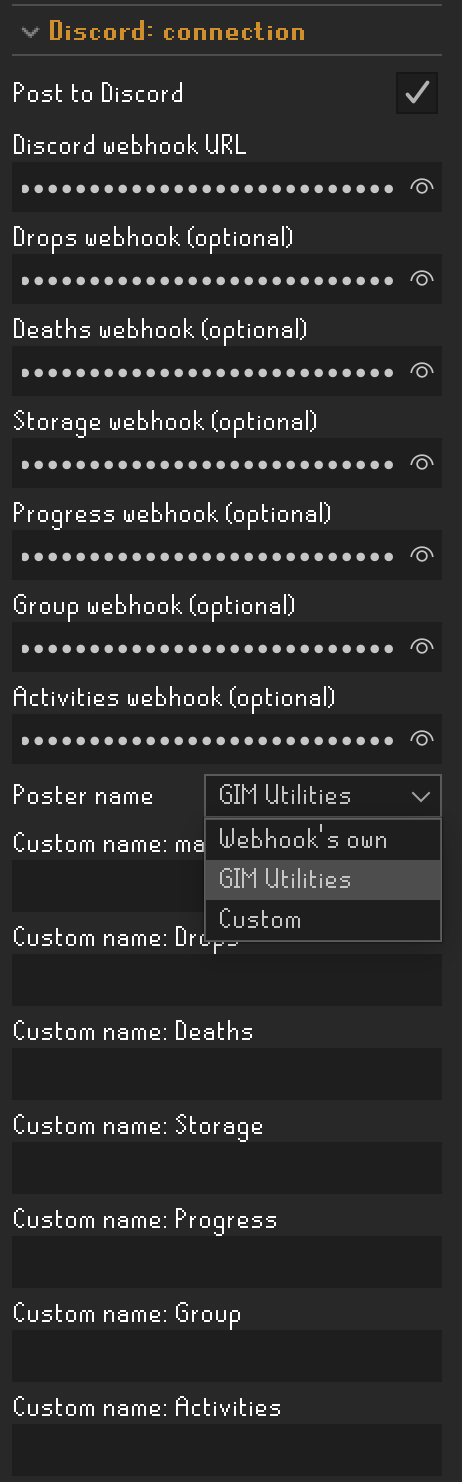
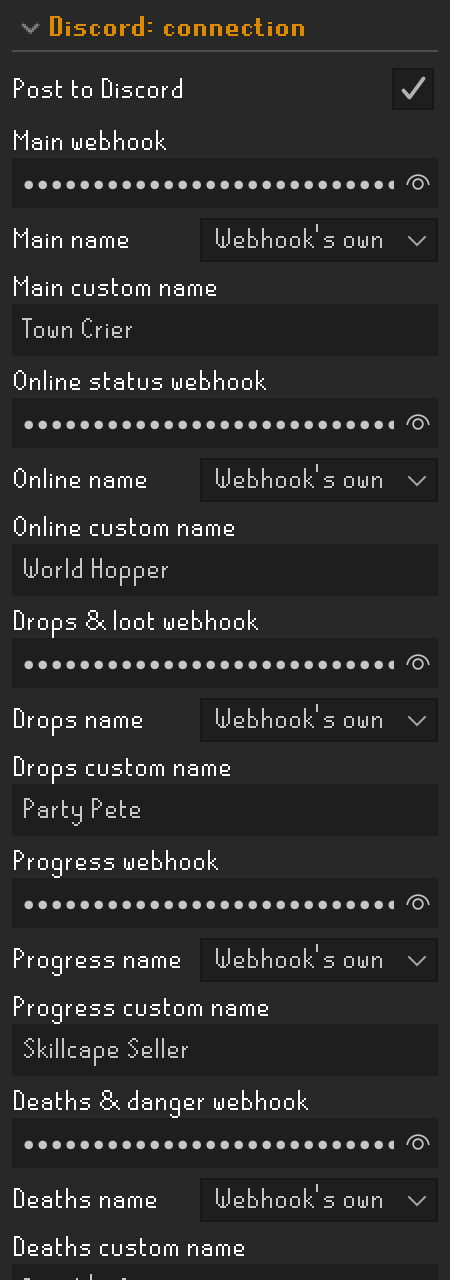
docs(readme): render README shots from made-up scenes
ReadmeShots renders 7 shots at fixed sizes (225 wide, 2x):
settings-tab-leader, settings-tab-member, settings-who-posts,
panel-group-hiscores, storage-log (Storage chip), settings-discord-
connection, settings-thresholds-advanced. ./gradlew screenshots writes
docs/images; ./gradlew test writes build/screenshots.

Item icons are placeholders (no game cache). docs/testing-ui.md: driver
choice with cited docs, what needs a display, how to add tests/shots.

StayPoint-Task: task-5586ef09
StayPoint-Run: local-8684246d

diff --git a/src/test/java/com/vinnyvangogh/groupironman/ReadmeShots.java b/src/test/java/com/vinnyvangogh/groupironman/ReadmeShots.java
@@ -1,0 +1,197 @@
+package com.vinnyvangogh.groupironman;
+
+import com.vinnyvangogh.testkit.ui.ConfigPanelHarness;
+import com.vinnyvangogh.testkit.ui.RuneLiteLook;
+import com.vinnyvangogh.testkit.ui.SwingDriver;
+import java.awt.Color;
+import java.awt.image.BufferedImage;
+import java.io.File;
+import java.util.Collections;
+import java.util.LinkedHashMap;
+import java.util.Map;
+import java.util.function.Supplier;
+import javax.imageio.ImageIO;
+import javax.swing.AbstractButton;
+import javax.swing.JToggleButton;
+import net.runelite.client.ui.ColorScheme;
+import org.junit.Before;
+import org.junit.Test;
+import static org.junit.Assert.assertEquals;
+import static org.junit.Assert.assertTrue;
+
+/**
+ * Renders the README's screenshots from the shot list, each at a fixed size,
+ * from made-up scenes (no real account names). Headless.
+ *
+ * <p>{@code ./gradlew screenshots} writes them into docs/images. In
+ * {@code ./gradlew test} the same code writes to build/screenshots, so a
+ * change that breaks a shot fails the build rather than the README.
+ *
+ * <p>Item icons are placeholders with the item's initials: the game cache is
+ * not available outside the client. The shots chosen for the README are the
+ * ones that read without real icons.
+ */
+public class ReadmeShots
+{
+	/** Shots are drawn at the sidebar's width and saved at twice the size, so they stay sharp on a retina screen. */
+	static final double SCALE = 2.0;
+	static final int WIDTH = GimPanelFixture.PANEL_WIDTH;
+	static final Color BACKGROUND = ColorScheme.DARK_GRAY_COLOR;
+
+	/** Name, then the shot's height in panel pixels: every shot of one name is always the same size. */
+	static final Map<String, Integer> SHOTS = new LinkedHashMap<>();
+
+	static
+	{
+		SHOTS.put("settings-tab-leader", 760);
+		SHOTS.put("settings-tab-member", 640);
+		SHOTS.put("settings-who-posts", 760);
+		SHOTS.put("panel-group-hiscores", 760);
+		SHOTS.put("storage-log", 520);
+		SHOTS.put("settings-discord-connection", 640);
+		SHOTS.put("settings-thresholds-advanced", 760);
+	}
+
+	@Before
+	public void lookLikeRuneLite()
+	{
+		SwingDriver.onEdt(RuneLiteLook::install);
+	}
+
+	static File outputDir()
+	{
+		String dir = System.getProperty("screenshots.dir");
+		return dir != null && !dir.isEmpty() ? new File(dir) : new File("build/screenshots");
+	}
+
+	@Test
+	public void rendersEveryShotAtItsFixedSize() throws Exception
+	{
+		Map<String, Supplier<BufferedImage>> renders = new LinkedHashMap<>();
+		renders.put("settings-tab-leader", ReadmeShots::settingsLeader);
+		renders.put("settings-tab-member", ReadmeShots::settingsMember);
+		renders.put("settings-who-posts", ReadmeShots::whoPosts);
+		renders.put("panel-group-hiscores", ReadmeShots::groupHiscores);
+		renders.put("storage-log", ReadmeShots::storageLog);
+		renders.put("settings-discord-connection", ReadmeShots::discordConnection);
+		renders.put("settings-thresholds-advanced", ReadmeShots::thresholdsAdvanced);
+		assertEquals("every shot in the list has a render", SHOTS.keySet(), renders.keySet());
+
+		File dir = outputDir();
+		for (Map.Entry<String, Supplier<BufferedImage>> e : renders.entrySet())
+		{
+			int w = (int) Math.round(WIDTH * SCALE);
+			int h = (int) Math.round(SHOTS.get(e.getKey()) * SCALE);
+			BufferedImage shot = SwingDriver.onEdt(() -> SwingDriver.fit(e.getValue().get(), w, h, BACKGROUND));
+			File file = new File(dir, e.getKey() + ".png");
+			SwingDriver.writePng(shot, file);
+			BufferedImage back = ImageIO.read(file);
+			assertEquals(e.getKey(), w, back.getWidth());
+			assertEquals(e.getKey(), h, back.getHeight());
+			assertTrue(e.getKey() + " is not blank", notBlank(back));
+		}
+	}
+
+	private static boolean notBlank(BufferedImage img)
+	{
+		int first = img.getRGB(0, 0);
+		for (int y = 0; y < img.getHeight(); y += 4)
+		{
+			for (int x = 0; x < img.getWidth(); x += 4)
+			{
+				if (img.getRGB(x, y) != first)
+				{
+					return true;
+				}
+			}
+		}
+		return false;
+	}
+
+	// ---- The shots ----
+
+	private static BufferedImage panelShot(GimPanelFixture f)
+	{
+		return f.ui.render(WIDTH, 0, SCALE);
+	}
+
+	private static GimPanelFixture settingsTab(String self)
+	{
+		GimPanelFixture.Scene s = GimPanelFixture.groupScene();
+		s.self = self;
+		s.settings = new GimPanelFixture.Governance().led(GimPanelFixture.SELF, GimPanelFixture.MOSS, s.now)
+			.view(self, true);
+		return new GimPanelFixture().show(s).tab("Settings");
+	}
+
+	static BufferedImage settingsLeader()
+	{
+		return panelShot(settingsTab(GimPanelFixture.SELF));
+	}
+
+	static BufferedImage settingsMember()
+	{
+		return panelShot(settingsTab(GimPanelFixture.WREN));
+	}
+
+	/** The leader's grid of who posts what, from its header down: it sits below everything else in the tab. */
+	static BufferedImage whoPosts()
+	{
+		GimPanelFixture f = settingsTab(GimPanelFixture.SELF);
+		f.ui.click("- " + GroupSettingsSchema.THRESHOLDS);
+		f.ui.click("+ Who posts what");
+		BufferedImage full = panelShot(f);
+		int top = f.ui.yOf(f.ui.button("- Who posts what")) - 4;
+		return SwingDriver.from(full, (int) Math.round(top * SCALE));
+	}
+
+	static BufferedImage groupHiscores()
+	{
+		return panelShot(new GimPanelFixture().show(GimPanelFixture.groupScene()));
+	}
+
+	/** The Log with the Storage chip ticked. */
+	static BufferedImage storageLog()
+	{
+		GimPanelFixture f = new GimPanelFixture().show(GimPanelFixture.logScene()).tab("Log");
+		AbstractButton chip = f.ui.all(JToggleButton.class).stream()
+			.filter(b -> "Storage".equals(b.getText()) && b.getToolTipText() != null)
+			.findFirst().orElseThrow(() -> new AssertionError("no Storage chip"));
+		f.ui.click(chip);
+		return panelShot(f);
+	}
+
+	static BufferedImage discordConnection()
+	{
+		ConfigPanelHarness h = ConfigPanelHarness.of("GIM Utilities", GimPanelFixture.DEFAULTS, discordOn());
+		h.setOpen("Discord: connection", true);
+		return SwingDriver.stack(WIDTH, CONFIG_PAD, SCALE, BACKGROUND, h.section("Discord: connection"));
+	}
+
+	static BufferedImage thresholdsAdvanced()
+	{
+		ConfigPanelHarness h = ConfigPanelHarness.of("GIM Utilities", GimPanelFixture.DEFAULTS,
+			Collections.emptyMap());
+		h.setOpen("Thresholds", true);
+		h.setOpen("Advanced", true);
+		return SwingDriver.stack(WIDTH, CONFIG_PAD, SCALE, BACKGROUND, h.section("Thresholds"),
+			h.section("Advanced"));
+	}
+
+	/** The margin RuneLite's settings page puts around its sections. */
+	static final int CONFIG_PAD = 6;
+
+	/** Post to Discord ticked and made-up webhooks, so the fields show as filled secrets. */
+	private static Map<String, Object> discordOn()
+	{
+		Map<String, Object> v = new LinkedHashMap<>();
+		v.put("discordEnabled", true);
+		String hook = "https://discord.com/api/webhooks/0/made-up";
+		for (String key : new String[]{"discordWebhookUrl", "discordGroupUrl", "discordDropsUrl", "discordProgressUrl",
+			"discordDeathsUrl", "discordStorageUrl", "discordDigestUrl"})
+		{
+			v.put(key, hook);
+		}
+		return v;
+	}
+}

diff --git a/docs/testing-ui.md b/docs/testing-ui.md
@@ -1,0 +1,125 @@
+# UI tests and README screenshots
+
+The plugin's own Swing panels are tested by clicking through them in JUnit:
+the side panel's tabs, buttons, filters, folds and the Settings tab, and
+RuneLite's settings page for this plugin. The same code renders the README
+screenshots. Nothing here touches the game: clicks never leave the panel's
+component tree, and no input is ever sent to the OS or the client.
+
+```
+./gradlew test                 # every test, headless; shots rendered into build/screenshots
+./gradlew test -Pheadful       # also the two clipboard tests (needs a display, e.g. the Mac)
+./gradlew screenshots          # renders the README shots into docs/images
+```
+
+## The driver, and why not Robot or AssertJ Swing
+
+`SwingDriver` (src/test/java/com/vinnyvangogh/testkit/ui) finds components by
+their text, clicks them, types into them, reads what is on screen and renders
+the tree to a PNG. A click is the button's own `doClick`, or a mouse event
+handed straight to the component's listeners. The panel is never put in a
+window; the driver lays it out at the sidebar's width itself.
+
+Two alternatives were considered and not used:
+
+- **`java.awt.Robot`** generates "native system input events": `mouseMove`
+  "will actually move the mouse cursor", and the constructor throws
+  `AWTException` whenever `GraphicsEnvironment.isHeadless()` is true
+  ([Robot, Java 11 API](https://docs.oracle.com/en/java/javase/11/docs/api/java.desktop/java/awt/Robot.html)).
+  It would take over the Mac's mouse during a test run and could not run on CI.
+- **AssertJ Swing** drives tests through Robot as well. Its docs call GUI tests
+  "more intrusive than regular unit tests", say a CI server "probably doesn't
+  even have X running", and recommend a VNC server rather than `xvfb-run`
+  ([Running AssertJ Swing tests](https://joel-costigliola.github.io/assertj/assertj-swing-running.html)).
+  Its last release is 3.17.1, about six years old
+  ([Maven Central](https://central.sonatype.com/artifact/org.assertj/assertj-swing)).
+
+Driving the components directly needs no display, so the whole suite runs with
+`java.awt.headless=true` (set for the `test` task in build.gradle) on CI and on
+the Mac alike.
+
+**What needs a display:** only `pasteReadsTheKeyFromTheClipboardAndOpensTheShareCard`
+and `copyPutsTheKeyOnTheClipboard` in `GimPanelUiTest`. A headless JVM has no
+system clipboard, so they skip (JUnit `Assume`) unless run with `-Pheadful`.
+They put a made-up key on the clipboard and restore what was there.
+
+## What stands in for the client
+
+- **Item icons** come from `ItemManager`, which needs the game cache. A Mockito
+  mock returns placeholder tiles with the item's initials and stack number.
+- **Skill icons** are RuneLite's own (`SkillIconManager` reads them from the
+  client jar).
+- **Sprites** (the minimap orb icons) are not loaded: `SpriteManager` is a mock
+  that never answers.
+- **RuneLite's settings page** is the real `ConfigPanel`, built by
+  `ConfigPanelHarness`. That class is package-private with a private Guice
+  constructor, and the client jar is signed, so test code cannot join its
+  package: the harness reaches it by reflection. This is test code only and
+  never ships (the Plugin Hub replaces build.gradle and builds `main` only). Its
+  `ConfigManager` is a mock that answers each read from the config interface's
+  own defaults, overridden per test.
+- **Look and feel** is RuneLite's (`RuneLiteLAF.setup()`), so sizes, fonts and
+  colours match the client.
+
+## Scenarios
+
+`GimPanelFixture` builds the panel's `View` the way `GroupIronmanPlugin#redraw`
+does, from state a scenario leaves behind: a storage visit (14 sharks
+withdrawn, coins deposited), level-ups, a drop, a death, a login, banks, a
+member without the plugin (hiscores only), and group settings signed by a
+leader, an editor and a member, each with their own key. Every name is made up
+(Ember Fox, Moss Kettle, Pebble Wren, Tin Lantern; group Iron Teacups).
+
+When the fake events harness (RUNELITE-138) lands, these scenes are meant to
+come from its scenario files instead of being built by hand.
+
+## Adding a UI test
+
+```java
+@Test
+public void myTabShowsTheThing()
+{
+	SwingDriver.onEdt(() ->
+	{
+		GimPanelFixture f = new GimPanelFixture().show(GimPanelFixture.storageScene()).tab("Storage");
+		f.ui.type(f.ui.field("Filter storage"), "shark");   // by the field's tooltip
+		f.ui.click("Collapse all");                          // a button or label, by its text
+		f.ui.assertShows("Moss Kettle");                     // any visible text
+	});
+}
+```
+
+Everything runs on the Swing thread (`SwingDriver.onEdt`). "Visible" means the
+component and every parent are visible, so a hidden tab or a folded section
+does not count. A failed lookup lists everything that was on screen.
+
+## README screenshots
+
+`ReadmeShots` holds the shot list. Each shot is a name and a fixed height; all
+are the sidebar's width (225) and saved at 2x:
+
+| Shot | What it shows |
+| --- | --- |
+| settings-tab-leader | Settings tab as the leader: editors, editable group settings |
+| settings-tab-member | Settings tab as a member: the group's settings, read-only |
+| settings-who-posts | The leader's "Who posts what" grid |
+| panel-group-hiscores | Group tab, including a member without the plugin (hiscores) |
+| storage-log | Log tab with the Storage chip ticked |
+| settings-discord-connection | RuneLite settings: Discord: connection, made-up webhooks filled in |
+| settings-thresholds-advanced | RuneLite settings: Thresholds and Advanced |
+
+To add one: put the name and height in `SHOTS`, a render method in the map in
+`rendersEveryShotAtItsFixedSize`, and run `./gradlew screenshots`.
+
+## Copying this into another plugin
+
+The driver files have no plugin types:
+
+```
+scripts/add-ui-driver.sh ~/Documents/dev/runelite_plugins/<plugin>
+```
+
+copies `SwingDriver`, `ConfigPanelHarness`, `RuneLiteLook` and the driver's own
+test, and prints the build.gradle lines to add (Mockito, headless tests, the
+screenshots task). The plugin then writes its own fixture and shot list, as
+`GimPanelFixture` and `ReadmeShots` do here.

diff --git a/README.md b/README.md
@@ -18,6 +18,11 @@ to share, and only sees other members' data for what they share themselves.
   ![Group tab showing member card with orbs, stats, equipment, and inventory](https://raw.githubusercontent.com/VinnyVanGogh/group-ironman-plugin/main/docs/images/panel-group.png)
   *Group tab: member card with world/location, vitals orbs, stats, worn gear, and inventory.*
 
+  A member who doesn't run the plugin still gets a card: online and world from
+  the game's Group channel, levels from the hiscores.
+
+  ![Group tab with a member without the plugin, levels from the hiscores](https://raw.githubusercontent.com/VinnyVanGogh/group-ironman-plugin/main/docs/images/panel-group-hiscores.png)
+
 - **Banks:** each member's last bank with value and when it was seen.
 
   ![Banks tab showing member bank with item counts and total value](https://raw.githubusercontent.com/VinnyVanGogh/group-ironman-plugin/main/docs/images/member-bank.png)
@@ -49,6 +54,26 @@ to share, and only sees other members' data for what they share themselves.
 
   ![Log tab showing group storage changes and activity since last played](https://raw.githubusercontent.com/VinnyVanGogh/group-ironman-plugin/main/docs/images/storage-log.png)
   *Log tab: storage deposits/withdrawals and group activity since your last session.*
+
+- **Group settings tab:** one set of thresholds and switches for the whole
+  group, saved by the leader or an editor and read-only for everyone else, with
+  the leader's editor list and a grid of who posts what.
+
+  <details><summary>As the leader</summary>
+
+  ![Settings tab as the leader: editors and the group's settings to edit](https://raw.githubusercontent.com/VinnyVanGogh/group-ironman-plugin/main/docs/images/settings-tab-leader.png)
+
+  </details>
+  <details><summary>As a member</summary>
+
+  ![Settings tab as a member: the group's settings, read-only](https://raw.githubusercontent.com/VinnyVanGogh/group-ironman-plugin/main/docs/images/settings-tab-member.png)
+
+  </details>
+  <details><summary>Who posts what</summary>
+
+  ![Who posts what: each member's own choice per event](https://raw.githubusercontent.com/VinnyVanGogh/group-ironman-plugin/main/docs/images/settings-who-posts.png)
+
+  </details>
 
 - Storage minimums with a desktop notification, and optional world map
   markers.

diff --git a/docs/README.md b/docs/README.md
@@ -1,6 +1,11 @@
 # docs
 
-`images/` holds the screenshots used by the README.
+`images/` holds the screenshots used by the README. Seven of them
+(settings-tab-leader, settings-tab-member, settings-who-posts,
+panel-group-hiscores, storage-log, settings-discord-connection,
+settings-thresholds-advanced) are rendered by `./gradlew screenshots` from
+made-up scenes; see [testing-ui.md](testing-ui.md). Regenerate those rather
+than replacing them by hand.
 
 **Redact other people's account names before committing a screenshot.** Player
 names are visible in chat, on the minimap, over heads and in the opponent
